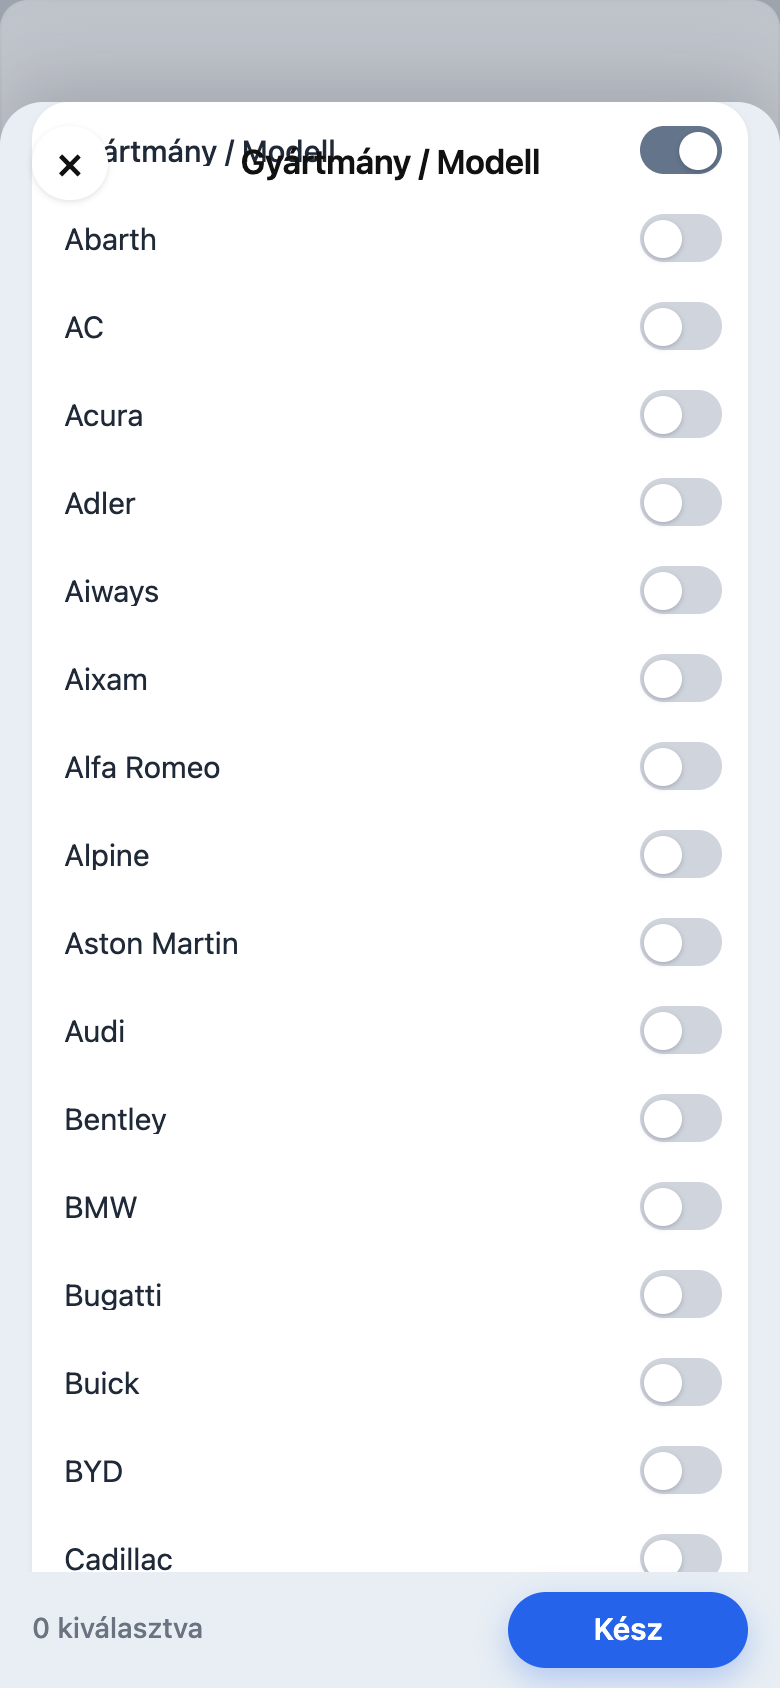
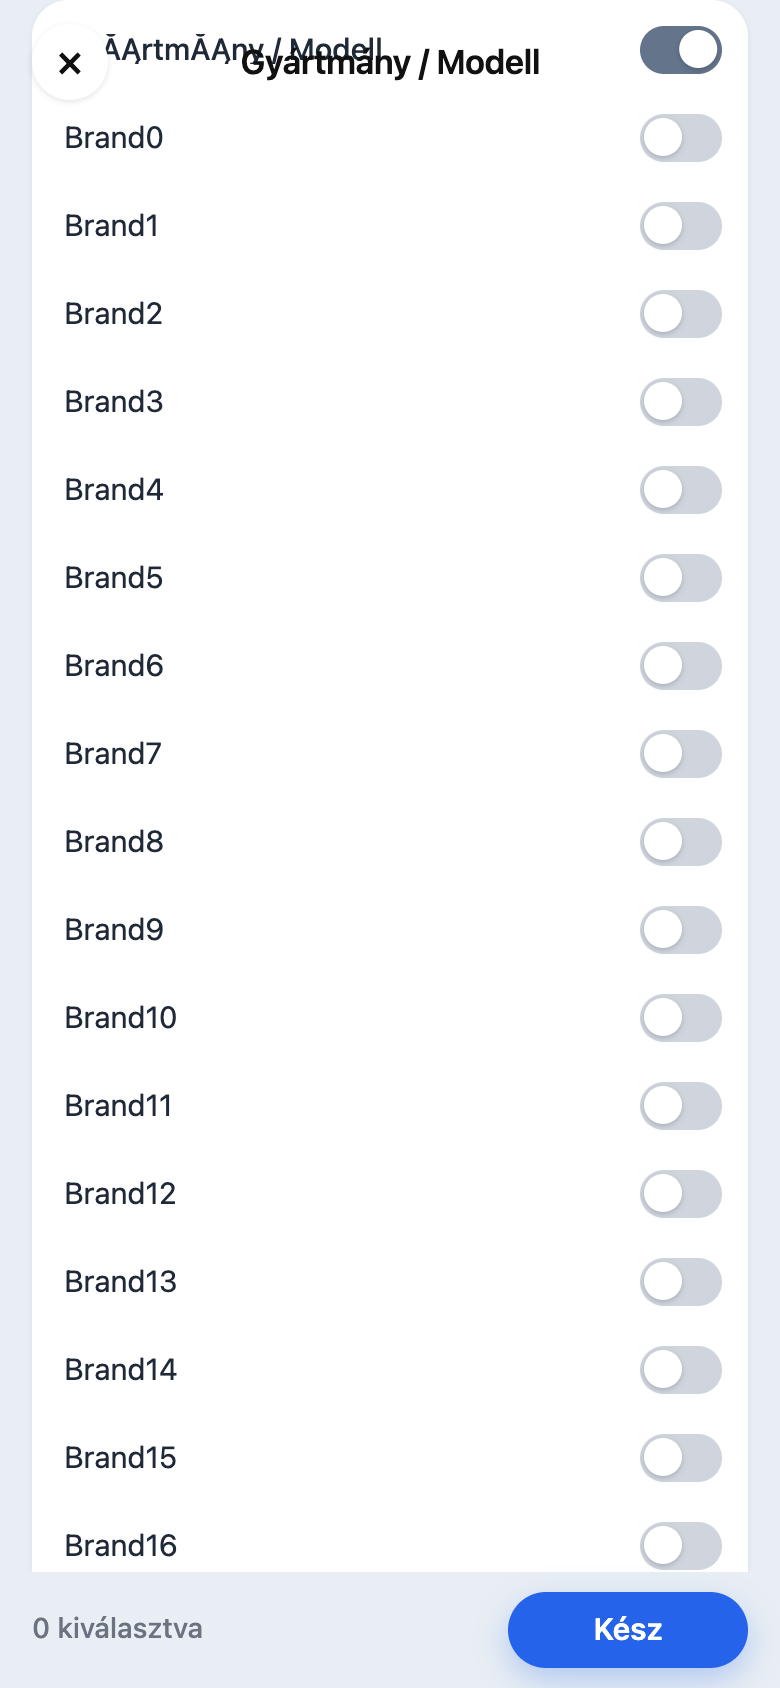
Fix brand sheet so white sticks at the blue top while scrolling.
The tall white card was scrolling past the top; make the stage full-height and keep the white panel sticky with internal list scroll.

diff --git a/public/css/ingatlan-search.css b/public/css/ingatlan-search.css
@@ -1571,8 +1571,8 @@ body[data-site-page="ingatlan"] .immo-schema-cell:has(.telepules-suggest:not([hi
 }
 
 /* AutoScout-stílusú gyártmány sheet:
-   kék stage végig (tetejétől aljáig); fej + láb ráül;
-   fehér kártya állandó szélességgel a kéken csúszik fel / kitölti a magasságot */
+   kék stage a képernyő tetejéig; cím/X ráül;
+   fehér felcsúszik a kék tetejére és ott ragad — lista belül görög, szélesség állandó */
 .auto-drum-portal--sheet .auto-drum-portal__backdrop {
   background: rgba(15, 23, 42, 0.22);
 }
@@ -1582,22 +1582,21 @@ body[data-site-page="ingatlan"] .immo-schema-cell:has(.telepules-suggest:not([hi
   --sheet-foot-h: 4.6rem;
   left: 50% !important;
   right: auto !important;
-  top: auto !important;
+  top: 0 !important;
   bottom: 0 !important;
   transform: translateX(-50%) !important;
   width: min(28rem, 100vw) !important;
   max-width: 100vw !important;
-  height: min(94vh, 54rem);
-  max-height: 94vh;
+  height: 100% !important;
+  max-height: none !important;
   display: block !important;
   padding: 0 !important;
   box-sizing: border-box;
   background: #e8eef3;
-  border-radius: 1.35rem 1.35rem 0 0;
-  box-shadow: 0 -12px 36px rgba(15, 23, 42, 0.18);
+  border-radius: 0;
+  box-shadow: none;
   overflow: hidden;
   position: absolute;
-  container-type: size;
 }
 
 .auto-drum-portal--sheet .auto-drum-portal__sheet-head {
@@ -1649,7 +1648,7 @@ body[data-site-page="ingatlan"] .immo-schema-cell:has(.telepules-suggest:not([hi
   height: 2.35rem;
 }
 
-/* Teljes kék stage fölött görög — induláskor hely a címnek, görgetve fehér a kék tetejéig */
+/* Külső görgetés: hely + „Népszerű” elmegy; utána a fehér a tetején ragad */
 .auto-drum-portal--sheet .auto-drum-portal__sheet-scroll {
   position: absolute;
   inset: 0;
@@ -1658,26 +1657,19 @@ body[data-site-page="ingatlan"] .immo-schema-cell:has(.telepules-suggest:not([hi
   overflow-y: auto;
   -webkit-overflow-scrolling: touch;
   overscroll-behavior: contain;
-  display: flex;
-  flex-direction: column;
-  align-items: stretch;
-  gap: 0;
   margin: 0;
-  padding: 0 1rem 0;
+  padding: 0 1rem;
   box-sizing: border-box;
   background: transparent;
 }
 
-/* Görgethető hely: cím/X alatt indul a tartalom; elmegy, így a fehér felér a kék tetejére */
 .auto-drum-portal--sheet .auto-drum-portal__sheet-top-space {
-  flex: 0 0 auto;
   height: var(--sheet-head-h);
   width: 100%;
   pointer-events: none;
 }
 
 .auto-drum-portal--sheet .auto-drum-portal__sheet-section {
-  flex: 0 0 auto;
   margin: 0 0 0.45rem;
   padding: 0 0.1rem;
   font: 500 0.82rem/1.2 system-ui, sans-serif;
@@ -1685,28 +1677,31 @@ body[data-site-page="ingatlan"] .immo-schema-cell:has(.telepules-suggest:not([hi
   background: transparent;
 }
 
-/* Fehér: állandó szélesség; felcsúszhat a stage tetejéig (cím alá), le a lábléc alá */
+/* Fehér: felcsúszik a kék tetejére, ott sticky; lista bent görög */
 .auto-drum-portal--sheet .auto-drum-portal__ring--sheet,
 .auto-drum-portal--sheet .auto-drum-portal__ring--multi {
+  position: sticky !important;
+  top: 0 !important;
+  z-index: 2;
   width: 100% !important;
   max-width: 100% !important;
   min-width: 0 !important;
-  height: auto !important;
-  max-height: none !important;
-  flex: 1 0 auto !important;
-  min-height: calc(100cqh - var(--sheet-head-h)) !important;
+  height: 100% !important;
+  max-height: 100% !important;
+  min-height: 0 !important;
   margin: 0 !important;
-  padding-bottom: var(--sheet-foot-h) !important;
+  padding: 0 0 var(--sheet-foot-h) !important;
   border: 0 !important;
   border-radius: 1.15rem 1.15rem 0 0 !important;
   background: #fff !important;
   box-shadow: 0 1px 3px rgba(15, 23, 42, 0.06) !important;
-  overflow: hidden !important;
-  display: flex !important;
-  flex-direction: column !important;
+  overflow-x: hidden !important;
+  overflow-y: auto !important;
+  -webkit-overflow-scrolling: touch;
+  overscroll-behavior: contain;
+  display: block !important;
   box-sizing: border-box !important;
-  position: relative;
-  z-index: 2;
+  flex: none !important;
 }
 
 .auto-drum-portal--sheet .auto-drum-portal__toolbar--sheet {
@@ -1773,7 +1768,7 @@ body[data-site-page="ingatlan"] .immo-schema-cell:has(.telepules-suggest:not([hi
   min-height: 0;
   max-height: none !important;
   overflow: visible !important;
-  padding: 0.15rem 0.35rem 0.75rem 0.65rem !important;
+  padding: 0.15rem 0.35rem calc(var(--sheet-foot-h) + 0.5rem) 0.65rem !important;
   scroll-snap-type: none !important;
 }
 
@@ -1849,12 +1844,13 @@ body[data-site-page="ingatlan"] .immo-schema-cell:has(.telepules-suggest:not([hi
 
 @media (min-width: 901px) {
   .auto-drum-portal--sheet .auto-drum-portal__stage--sheet {
-    bottom: auto !important;
     top: 50% !important;
+    bottom: auto !important;
     transform: translate(-50%, -50%) !important;
-    height: min(86vh, 48rem);
-    max-height: 86vh;
+    height: min(86vh, 48rem) !important;
+    max-height: 86vh !important;
     border-radius: 1.35rem;
+    box-shadow: 0 12px 36px rgba(15, 23, 42, 0.18);
   }
 }
 

diff --git a/public/js/ad-form-bm-pickers.js b/public/js/ad-form-bm-pickers.js
@@ -2380,7 +2380,7 @@ async function mountAdBrandModelCombined(form, catalog) {
   }
 
   const { fillWheel, setWheelValue, readWheel } = await import("./ingatlan-wheels.js?v=immoClearAll1");
-  const { openBrandModelCatalogSheet } = await import("./auto-drum-sheet.js?v=bmSheet9");
+  const { openBrandModelCatalogSheet } = await import("./auto-drum-sheet.js?v=bmSheet10");
   const { initDrumWheel, syncDrumWheelDisplay } = await import("./immo-drum-picker.js?v=immoClear1");
 
   const brands = [...(catalog?.gyartmanyok || [])].sort((a, b) =>
@@ -2543,7 +2543,7 @@ async function mountAdSelectDrum(select, {
   select.dataset.adBmDrum = "1";
 
   const { fillWheel, setWheelValue, readWheel } = await import("./ingatlan-wheels.js?v=immoClearAll1");
-  const { openStandaloneSwitchSheet, bindAutoDrumSheet } = await import("./auto-drum-sheet.js?v=bmSheet9");
+  const { openStandaloneSwitchSheet, bindAutoDrumSheet } = await import("./auto-drum-sheet.js?v=bmSheet10");
   const { initDrumWheel, syncDrumWheelDisplay } = await import("./immo-drum-picker.js?v=immoClear1");
 
   const wrap = document.createElement("div");
@@ -2762,7 +2762,7 @@ async function mountAdSplitYmDrum({
   }
 
   const { fillWheel, setWheelValue, readWheel } = await import("./ingatlan-wheels.js?v=immoClearAll1");
-  const { openAutoDrumSheet } = await import("./auto-drum-sheet.js?v=bmSheet9");
+  const { openAutoDrumSheet } = await import("./auto-drum-sheet.js?v=bmSheet10");
   const { initDrumWheel, syncDrumWheelDisplay } = await import("./immo-drum-picker.js?v=immoClear1");
 
   const yearOpts = optionsFromSelect(ev, emptyYear);
@@ -2889,7 +2889,7 @@ async function mountMuszakiDateTripleDrum(form) {
 
   const { fillWheel, setWheelValue, readWheel } = await import("./ingatlan-wheels.js?v=immoClearAll1");
   const { openAutoDrumSheet, bindAutoDrumSheet } = await import(
-    "./auto-drum-sheet.js?v=bmSheet9"
+    "./auto-drum-sheet.js?v=bmSheet10"
   );
   const { initDrumWheel, syncDrumWheelDisplay } = await import("./immo-drum-picker.js?v=immoClear1");
 

diff --git a/public/hirdetesfeladas.html b/public/hirdetesfeladas.html
@@ -158,10 +158,10 @@
     <link rel="stylesheet" href="/css/automax.css?v=automax20260720homelist" />
     <link rel="stylesheet" href="/css/site-app.css?v=navOneRow1" />
         <link rel="stylesheet" href="/css/site-desk-header.css?v=navOneRow1" />
-<link rel="stylesheet" href="/css/ingatlan-search.css?v=bmSheet9" />
-    <link rel="stylesheet" href="/css/ad-form-desk.css?v=bmSheet9" />
+<link rel="stylesheet" href="/css/ingatlan-search.css?v=bmSheet10" />
+    <link rel="stylesheet" href="/css/ad-form-desk.css?v=bmSheet10" />
     <link rel="stylesheet" href="/css/ad-form-address.css?v=addrFix1" />
-    <link rel="stylesheet" href="/css/ad-form-bm-pickers.css?v=bmSheet9" />
+    <link rel="stylesheet" href="/css/ad-form-bm-pickers.css?v=bmSheet10" />
     <link rel="stylesheet" href="/css/price-market-hint.css?v=priceHint5" />
     <link rel="stylesheet" href="/css/site-side.css?v=mwPostDesk1" />
     <link rel="stylesheet" href="/css/category-picker.css?v=mobMenuFix1" />
@@ -1096,9 +1096,9 @@
 
     <script src="/js/site-avatar-menu.js?v=avatarSync1" type="module"></script>
     <script src="/js/hirdetes-category-boot.js?v=pickerBoot4" type="module"></script>
-    <script src="/js/app.js?v=bmSheet9" type="module"></script>
+    <script src="/js/app.js?v=bmSheet10" type="module"></script>
       <script src="/js/nav-counts.js?v=bootFix2" type="module"></script>
       <script src="/js/theme.js?v=willhabenHdr1" type="module"></script>
-    <script src="/js/form-layout-apply.js?v=bmSheet9" type="module"></script>
+    <script src="/js/form-layout-apply.js?v=bmSheet10" type="module"></script>
 </body>
 </html>

diff --git a/public/js/auto-drum-sheet.js b/public/js/auto-drum-sheet.js
@@ -941,6 +941,11 @@ export function openBrandModelCatalogSheet(brandWheel, trigger, wrap, emptyLabel
     () => paintSwitchList(scrollEl, view === "models" ? modelWheel : brandWheel),
     { passive: true }
   );
+  ring?.addEventListener(
+    "scroll",
+    () => paintSwitchList(scrollEl, view === "models" ? modelWheel : brandWheel),
+    { passive: true }
+  );
 
   document.body.appendChild(root);
   document.body.classList.add("auto-drum-portal-open");
@@ -950,8 +955,10 @@ export function openBrandModelCatalogSheet(brandWheel, trigger, wrap, emptyLabel
   trigger.setAttribute("aria-expanded", "true");
 
   stage.style.left = "50%";
-  stage.style.top = "auto";
+  stage.style.right = "auto";
+  stage.style.top = "0";
   stage.style.bottom = "0";
+  stage.style.height = "100%";
   stage.style.transform = "translateX(-50%)";
   activePortal = { root, wheel: brandWheel, scrollEl, ring, wrap, trigger, modelWheel };
 

diff --git a/public/js/form-layout-apply.js b/public/js/form-layout-apply.js
@@ -1,7 +1,7 @@
 import { ensureIngatlanFormFields } from "./ingatlan-form-fields.js?v=immoTipusPick1";
-import { refreshAdFormBmPickers } from "./ad-form-bm-pickers.js?v=bmSheet9";
+import { refreshAdFormBmPickers } from "./ad-form-bm-pickers.js?v=bmSheet10";
 import { initTireSizes } from "./tire-sizes-ui.js?v=tireFill1";
-import { applyAdFormDesk } from "./ad-form-desk.js?v=bmSheet9";
+import { applyAdFormDesk } from "./ad-form-desk.js?v=bmSheet10";
 import { markImmoPostViewReady } from "./category-picker.js?v=pickerBoot4";
 import {
   DESK_MUSZAKI_CORE_FIELD_KEYS,
@@ -13,7 +13,7 @@ import {
   applyStep1SearchDomOrder,
   isVehicleStep1Canvas,
   stackVehicleCanvasSingleColumn,
-} from "./ad-form-desk-pinned-blocks.js?v=bmSheet9";
+} from "./ad-form-desk-pinned-blocks.js?v=bmSheet10";
 
 function cssEscape(value) {
   if (window.CSS?.escape) return window.CSS.escape(value);

diff --git a/public/js/form-core.js b/public/js/form-core.js
@@ -23,9 +23,9 @@ import {
   DEFAULT_PHOTO_OVERLAY_ID,
   renderListingPhotoOverlay,
 } from "./listing-photo-overlay.js?v=photoOverlayIcons3";
-import { refreshAdFormBmPickers, applyAdFormBmFieldValues } from "./ad-form-bm-pickers.js?v=bmSheet9";
-import { applyAdFormDesk, isAdFormDesk } from "./ad-form-desk.js?v=bmSheet9";
-import { placeElectricBlockAfterFuel } from "./ad-form-desk-pinned-blocks.js?v=bmSheet9";
+import { refreshAdFormBmPickers, applyAdFormBmFieldValues } from "./ad-form-bm-pickers.js?v=bmSheet10";
+import { applyAdFormDesk, isAdFormDesk } from "./ad-form-desk.js?v=bmSheet10";
+import { placeElectricBlockAfterFuel } from "./ad-form-desk-pinned-blocks.js?v=bmSheet10";
 import { initKmInput, parseKmDigits, setKmInputValue } from "./km-input.js?v=kmFmt1";
 import {
   EV_FUEL_FIELD_IDS,

diff --git a/public/js/app.js b/public/js/app.js
@@ -11,7 +11,7 @@ import { applyImportedVehicleToSelects } from "./vehicle-catalog-client.js?v=imp
 import { initTireSizes } from "./tire-sizes-ui.js";
 import { initPhoneLanguages } from "./phone-lang-ui.js";
 import { initCategoryPicker } from "./category-picker.js?v=pickerBoot4";
-import { applyAdFormDesk, clearAdFormEditBoot, isDeskVehicleSubtype } from "./ad-form-desk.js?v=bmSheet9";
+import { applyAdFormDesk, clearAdFormEditBoot, isDeskVehicleSubtype } from "./ad-form-desk.js?v=bmSheet10";
 import {
   requireAuthForPage,
   getAuthUser,

diff --git a/public/js/ad-form-desk.js b/public/js/ad-form-desk.js
@@ -4,7 +4,7 @@ import {
   applyStep1SearchDomOrder,
   isVehicleStep1Canvas,
   stackVehicleCanvasSingleColumn,
-} from "./ad-form-desk-pinned-blocks.js?v=bmSheet9";
+} from "./ad-form-desk-pinned-blocks.js?v=bmSheet10";
 
 const DESK_MQ = "(min-width: 901px)";
 
